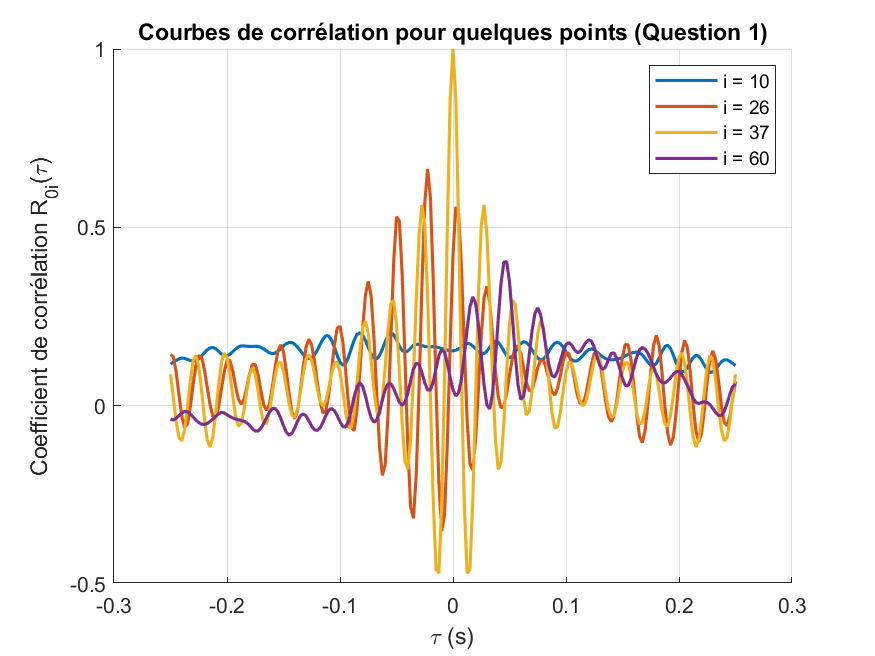
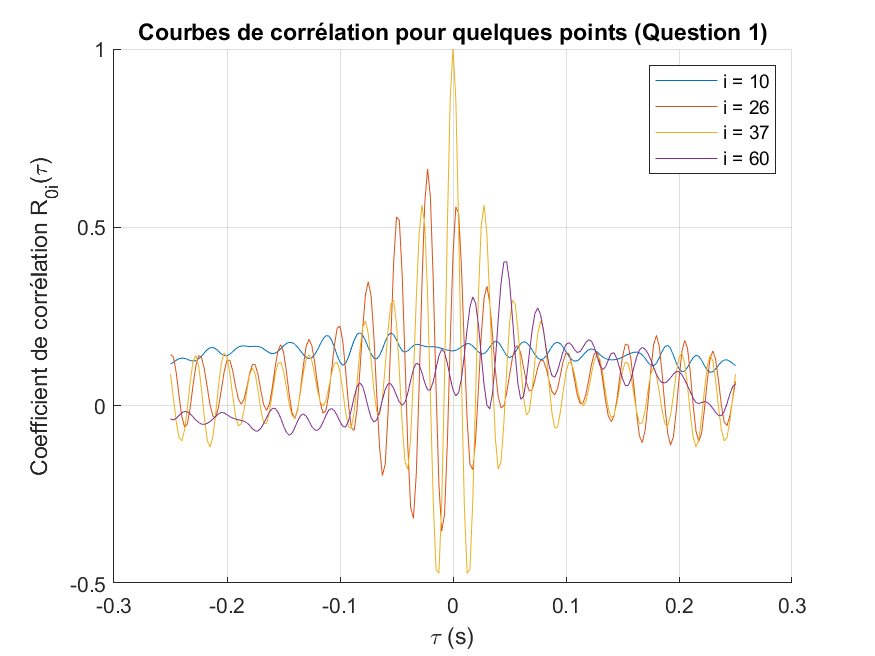
fin partie 1

Changed region(s): [[0.1851, 0.0915, 0.864, 0.8841], [0.7406, 0.1524, 0.8023, 0.2439]]

diff --git a/src/projet.m b/src/projet.m
@@ -1,80 +1,46 @@
-%%%%%%%%%%%%%%%%%%%%%%%%%%%%%%%%%%%%%%%%%%%%%%%%%%%%%%%%%%%%%%%%%%%%%%%%%%%
-% Fichier : projet.m
-% Objet   : Traitement des données de turbulence – Questions 1 et 2
-%
-% Hypothèses :
-% - Les fichiers de données sont nommés "signalXXX-026.dat" avec XXX allant
-%   de 001 à 071, correspondant à la ligne j = 26.
-% - dt = 2.5e-3 s, N = 1632 échantillons, dx = 1e-3 m.
-% - K = 100, donc τ ∈ [-K*dt, K*dt].
-%
-% Énoncé :
-% Q1 : Calculer les coefficients de corrélation temporelle R_{0i}(τ) entre
-%      le point de référence (i0 = 37, j = 26) et tous les points de la ligne
-%      (1 ≤ i ≤ 71) pour τ ∈ [-K*dt, K*dt] et tracer quelques courbes.
-%
-% Q2 : Tracer les isocontours de R_{0i}(r,τ) (avec r = (i-i0)*dx en abscisse et τ en ordonnée),
-%      extraire pour chaque point le décalage τ_max pour lequel R_{0i}(τ) est maximal
-%      (pour τ ≥ 0, en se limitant à une fenêtre primaire) et déterminer la vitesse de 
-%      convection U_c via un ajustement linéaire forcé à passer par l'origine : r = U_c * τ_max.
-%%%%%%%%%%%%%%%%%%%%%%%%%%%%%%%%%%%%%%%%%%%%%%%%%%%%%%%%%%%%%%%%%%%%%%%%%%%
-
 clear; clc; close all;
 
-% Créer le dossier results s'il n'existe pas
 if ~exist('../results', 'dir')
     mkdir('../results');
 end
 
-%% Paramètres
-dt = 2.5e-3;         % Pas temporel (2.5 ms)
-N  = 1632;           % Nombre d'échantillons par série
-dx = 1e-3;           % Pas spatial (1 mm)
-K = 100;             % Nombre de pas pour τ (donc τ ∈ [-K*dt, K*dt])
-tauList = (-K:K)*dt; % Vecteur des décalages (en s)
+% ================================
+% QUESTION 1
+% ================================
+
+dt = 2.5e-3;
+N  = 1632;
+dx = 1e-3;
+K = 100;
+tauList = (-K:K)*dt;
 nTau = length(tauList);
-
-% Points spatiaux sur la ligne j = 26
-i0 = 37;             % Point de référence
-iList = 1:71;        % Indices des points sur la ligne
+i0 = 37;
+iList = 1:71;
 nPoints = length(iList);
-rVector = (iList - i0)*dx;  % r = (i - i0)*dx (en m)
+rVector = (iList - i0)*dx;
 
-%%%%%%%%%%%%%%%%%%%%%%%%%%%%%%%%%%%%%%%%%%%%%%%%%%%%%%%%%%%%%%%%%%%%%%%%%%%
-%% Question 1 : Calcul et tracé des courbes de corrélation R_{0i}(τ)
-%%%%%%%%%%%%%%%%%%%%%%%%%%%%%%%%%%%%%%%%%%%%%%%%%%%%%%%%%%%%%%%%%%%%%%%%%%%
-
-% 1) Chargement du signal de référence (i0 = 37)
 refFile = sprintf('../data/signaux/signal%03d-026.dat', i0);
 [uRef, ~] = load_velocity(refFile);
-uRefFluc = uRef - mean(uRef);  % u'_0 = u0 - \bar{u}_0
+uRefFluc = uRef - mean(uRef);
 
 if length(uRef) ~= N
     error('Le fichier de référence ne contient pas %d échantillons.', N);
 end
 
-% 2) Calcul des coefficients de corrélation R_{0i}(τ)
-CorrMatrix = zeros(nPoints, nTau);  % Matrice (nPoints x nTau)
+CorrMatrix = zeros(nPoints, nTau);
 
 for idx = 1:nPoints
     iCur = iList(idx);
-    
-    % Chargement du signal du point iCur
     targetFile = sprintf('../data/signaux/signal%03d-026.dat', iCur);
     [uTarget, ~] = load_velocity(targetFile);
-    
     if length(uTarget) ~= N
         error('Le fichier %s ne contient pas %d échantillons.', targetFile, N);
     end
-    
-    % Calcul de la fluctuation u'_i = u_i - \bar{u}_i
     uTargetFluc = uTarget - mean(uTarget);
-    
-    % Calcul pour chaque décalage τ = k*dt, pour k = -K ... K.
     for k = -K:K
-        col = k + K + 1;  % Transformation de k = -K...K en indice 1 ... 2K+1
+        col = k + K + 1;
         if k >= 0
-            nMax = N - k - 1;  % Borne supérieure corrigée
+            nMax = N - k - 1;
             num = sum(uRefFluc(1:nMax) .* uTargetFluc(1+k:nMax+k));
             den = sqrt(sum(uRefFluc(1:nMax).^2) * sum(uTargetFluc(1+k:nMax+k).^2));
         else
@@ -83,7 +49,6 @@ for idx = 1:nPoints
             num = sum(uRefFluc(1+kk:nMax+kk) .* uTargetFluc(1:nMax));
             den = sqrt(sum(uRefFluc(1+kk:nMax+kk).^2) * sum(uTargetFluc(1:nMax).^2));
         end
-        
         if den > 1e-14
             CorrMatrix(idx, col) = num / den;
         else
@@ -92,13 +57,13 @@ for idx = 1:nPoints
     end
 end
 
-% 3) Tracé des courbes de corrélation pour quelques points choisis
-pointsToPlot = [10, 26, 37, 60];  % Exemples d'indices parmi iList
+pointsToPlot = [10, 26, 37, 60];
 figure;
+set(gcf, 'Visible', 'off')
 hold on;
 for iVal = pointsToPlot
     idx = find(iList == iVal);
-    plot(tauList, CorrMatrix(idx, :), 'LineWidth', 1.5, 'DisplayName', sprintf('i = %d', iVal));
+    plot(tauList, CorrMatrix(idx, :), 'LineWidth', 0.5, 'DisplayName', sprintf('i = %d', iVal));
 end
 hold off;
 xlabel('\tau (s)');
@@ -107,12 +72,12 @@ title('Courbes de corrélation pour quelques points (Question 1)');
 legend('show'); grid on;
 saveas(gcf, '../results/courbes_correlation.png');
 
-%%%%%%%%%%%%%%%%%%%%%%%%%%%%%%%%%%%%%%%%%%%%%%%%%%%%%%%%%%%%%%%%%%%%%%%%%%%
-%% Question 2 : Tracé des isocontours, extraction du maximum primaire et estimation de U_c
-%%%%%%%%%%%%%%%%%%%%%%%%%%%%%%%%%%%%%%%%%%%%%%%%%%%%%%%%%%%%%%%%%%%%%%%%%%%
+% ================================
+% QUESTION 2
+% ================================
 
-% 1) Tracé des isocontours du champ de corrélation R_{0i}(r,τ)
 figure;
+set(gcf, 'Visible', 'off')
 contourf(rVector, tauList, CorrMatrix', 20, 'LineColor','none');
 colorbar;
 xlabel('Distance r (m)');
@@ -120,47 +85,178 @@ ylabel('\tau (s)');
 title('Isocontours de R_{0i}(r,\tau) (Question 2)');
 saveas(gcf, '../results/isocontours_corr.png');
 
-% 2) Extraction de τ_max pour chaque point, en se limitant à une fenêtre primaire
-%    Ici, nous sélectionnons uniquement les τ ≤ tau_lim pour privilégier le maximum primaire.
-tau_lim = 0.02;  % Limite pour le maximum primaire (par exemple, 20 ms)
-tauPos = tauList(K+1:end);  % Valeurs pour τ ≥ 0
-valid_idx = find(tauPos <= tau_lim);
-if isempty(valid_idx)
-    valid_idx = 1:length(tauPos);
+tauMaxCenter = zeros(nPoints,1);
+for iRow = 1:nPoints
+    [~, idxMax] = max(CorrMatrix(iRow, :));
+    tauMaxCenter(iRow) = tauList(idxMax);
 end
 
-tauMax = zeros(nPoints,1);
-for idx = 1:nPoints
-    corrPos = CorrMatrix(idx, K+1:end);  % Partie pour τ ≥ 0
-    corrPrimary = corrPos(valid_idx);    % Restriction à la fenêtre primaire
-    [~, imax] = max(corrPrimary);
-    tauMax(idx) = tauPos(valid_idx(imax));
-end
+Uc_center = sum(rVector(:).*tauMaxCenter(:)) / sum(tauMaxCenter(:).^2);
+fprintf('Vitesse de convection estimée (raie centrale): U_c = %.10f m/s\n', Uc_center);
 
-% 3) Tracé du nuage de points (τ_max vs. r)
 figure;
-scatter(tauMax, rVector, 50, 'filled');
-xlabel('\tau_{max} (s)');
-ylabel('Distance r (m)');
-title('Nuage de points (τ_{max} vs. r) (Question 2)');
-grid on;
-saveas(gcf, '../results/nuage_points.png');
-
-% 4) Ajustement linéaire forcé à passer par l'origine pour estimer U_c
-%    On impose que r = U_c * τ_max (c'est-à-dire b = 0).
-Uc = sum(rVector(:) .* tauMax(:)) / sum(tauMax(:).^2);
-fprintf('Estimated convection speed U_c = %.4f m/s\n', Uc);
-
-% 5) Tracé du nuage de points avec la droite d'ajustement forcée par l'origine
-figure;
-scatter(tauMax, rVector, 50, 'filled'); hold on;
-tauFit = linspace(min(tauMax), max(tauMax), 100);
-rFit = Uc * tauFit;  % Ajustement linéaire forcé: r = U_c * τ
-plot(tauFit, rFit, 'r-', 'LineWidth', 2);
+set(gcf, 'Visible', 'off')
+contourf(rVector, tauList, CorrMatrix', 20, 'LineColor','none'); 
+colorbar;
+hold on;
+rFit = linspace(min(rVector), max(rVector), 100);
+tauTrend = rFit / Uc_center;
+plot(rFit, tauTrend, 'r-', 'LineWidth', 2);
 hold off;
-xlabel('\tau_{max} (s)');
-ylabel('Distance r (m)');
-title('Ajustement linéaire (passant par 0) pour l''estimation de U_c (Question 2)');
-legend('Données', sprintf('Droite: U_c = %.4f m/s', Uc), 'Location', 'Best');
+xlabel('Distance r (m)');
+ylabel('\tau (s)');
+title(sprintf('Isocontours avec tendance centrale : τ = r/U_c, U_c = %.4f m/s', Uc_center));
+legend('Tendance centrale', 'Location', 'Best');
 grid on;
-saveas(gcf, '../results/ajustement_lineaire.png');
+saveas(gcf, '../results/isocontours_corr_with_trend.png');
+
+% ================================
+% QUESTION 3
+% ================================
+
+I = 71;
+J = 39;
+Uc_center = 0.02;
+
+data = readmatrix('../data/champs/champ0020.dat', ...
+    'FileType', 'text', 'NumHeaderLines', 2);
+
+X_raw = data(:,1);
+Y_raw = data(:,2);
+u_raw = data(:,3);
+v_raw = data(:,4);
+
+X = reshape(X_raw, [I, J])';
+Y = reshape(Y_raw, [I, J])';
+u = reshape(u_raw, [I, J])';
+v = reshape(v_raw, [I, J])';
+
+u_moving = u - Uc_center; 
+v_moving = v;
+
+nbPointsDomain = 20;
+xRange = linspace(min(X(:)), max(X(:)), nbPointsDomain);
+yRange = linspace(min(Y(:)), max(Y(:)), nbPointsDomain);
+[Xstart_domain, Ystart_domain] = meshgrid(xRange, yRange);
+
+nbPointsInlet = 50;
+xLeft = min(X(:));
+yStart = linspace(min(Y(:)), max(Y(:)), nbPointsInlet);
+xStart_inlet = xLeft * ones(size(yStart));
+
+figure;
+set(gcf, 'Visible', 'off')
+quiver(X, Y, u, v);
+xlabel('X (m)'); ylabel('Y (m)');
+title('Champ de vecteurs - Référentiel fixe');
+axis equal; grid on;
+saveas(gcf, '../results/champ_vect_ref_mes.png');
+
+figure;
+set(gcf, 'Visible', 'off')
+verts_fixed_domain = stream2(X, Y, u, v, Xstart_domain, Ystart_domain);
+hlines_fixed_domain = streamline(verts_fixed_domain);
+set(hlines_fixed_domain, 'LineWidth', 0.5);
+xlabel('X (m)'); ylabel('Y (m)');
+title('Lignes de courant - Référentiel fixe');
+axis equal; grid on;
+saveas(gcf, '../results/streamlines_ref_mes_domain.png');
+
+figure;
+set(gcf, 'Visible', 'off')
+verts_fixed_inlet = stream2(X, Y, u, v, xStart_inlet, yStart);
+hlines_fixed_inlet = streamline(verts_fixed_inlet);
+set(hlines_fixed_inlet, 'LineWidth', 0.5);
+xlabel('X (m)'); ylabel('Y (m)');
+title('Lignes de courant - Référentiel fixe (Inlet Only)');
+axis equal; grid on;
+saveas(gcf, '../results/streamlines_ref_mes_inlet.png');
+
+figure;
+set(gcf, 'Visible', 'off')
+quiver(X, Y, u_moving, v_moving);
+xlabel('X (m)'); ylabel('Y (m)');
+title('Champ de vecteurs - Référentiel en translation');
+axis equal; grid on;
+saveas(gcf, '../results/champ_vect_ref_moving.png');
+
+figure;
+set(gcf, 'Visible', 'off')
+verts_moving_domain = stream2(X, Y, u_moving, v_moving, ...
+                              Xstart_domain, Ystart_domain);
+hlines_moving_domain = streamline(verts_moving_domain);
+set(hlines_moving_domain, 'LineWidth', 0.5);
+xlabel('X (m)'); ylabel('Y (m)');
+title('Lignes de courant - Référentiel en translation');
+axis equal; grid on;
+saveas(gcf, '../results/streamlines_ref_moving_domain.png');
+
+figure;
+set(gcf, 'Visible', 'off')
+verts_moving_inlet = stream2(X, Y, u_moving, v_moving, ...
+                             xStart_inlet, yStart);
+hlines_moving_inlet = streamline(verts_moving_inlet);
+set(hlines_moving_inlet, 'LineWidth', 0.5);
+xlabel('X (m)'); ylabel('Y (m)');
+title('Lignes de courant - Référentiel en translation (Inlet Only)');
+axis equal; grid on;
+saveas(gcf, '../results/streamlines_ref_moving_inlet.png');
+
+% ================================
+% QUESTION 4
+% ================================
+
+dx = mean(diff(X(1, :)));
+dy = mean(diff(Y(:, 1)));
+
+[dVdY, dVdX] = gradient(v, dy, dx);
+[dUdY, dUdX] = gradient(u, dy, dx);
+
+omega_z = dVdX - dUdY;
+
+figure;
+set(gcf, 'Visible', 'off')
+contourf(X, Y, omega_z, 20, 'LineColor','none');
+colorbar;
+axis equal; grid on;
+xlabel('X (m)');
+ylabel('Y (m)');
+title('Composante de la vorticité ω_z');
+saveas(gcf, '../results/vorticite.png');
+
+nbPointsDomain = 20;
+xRange = linspace(min(X(:)), max(X(:)), nbPointsDomain);
+yRange = linspace(min(Y(:)), max(Y(:)), nbPointsDomain);
+[Xstart_domain, Ystart_domain] = meshgrid(xRange, yRange);
+verts_fixed = stream2(X, Y, u, v, Xstart_domain, Ystart_domain);
+
+figure;
+set(gcf, 'Visible', 'off')
+contourf(X, Y, omega_z, 20, 'LineColor', 'none'); 
+colorbar;
+hold on;
+hlines_fixed = streamline(verts_fixed);
+set(hlines_fixed, 'LineWidth', 0.5, 'Color', [0.5 0.5 0.5]); 
+hold off;
+axis equal; grid on;
+xlabel('X (m)');
+ylabel('Y (m)');
+title('Superposition de la vorticité \omega_z et des lignes de courant (référentiel fixe)');
+saveas(gcf, '../results/vorticite_streamlines.png');
+
+% ================================
+% QUESTION 5
+% ================================
+
+Q2D = (1/4) * (dUdY - dVdX).^2 ...
+     - (1/2) * (dUdX.^2 + dVdY.^2 + (1/2)*(dUdY + dVdX).^2);
+
+figure;
+set(gcf, 'Visible', 'off')
+contourf(X, Y, Q2D, 20, 'LineColor','none');
+colorbar;
+axis equal; grid on;
+xlabel('X (m)');
+ylabel('Y (m)');
+title('Critère Q_{2D}');
+saveas(gcf, '../results/Q2D.png');
